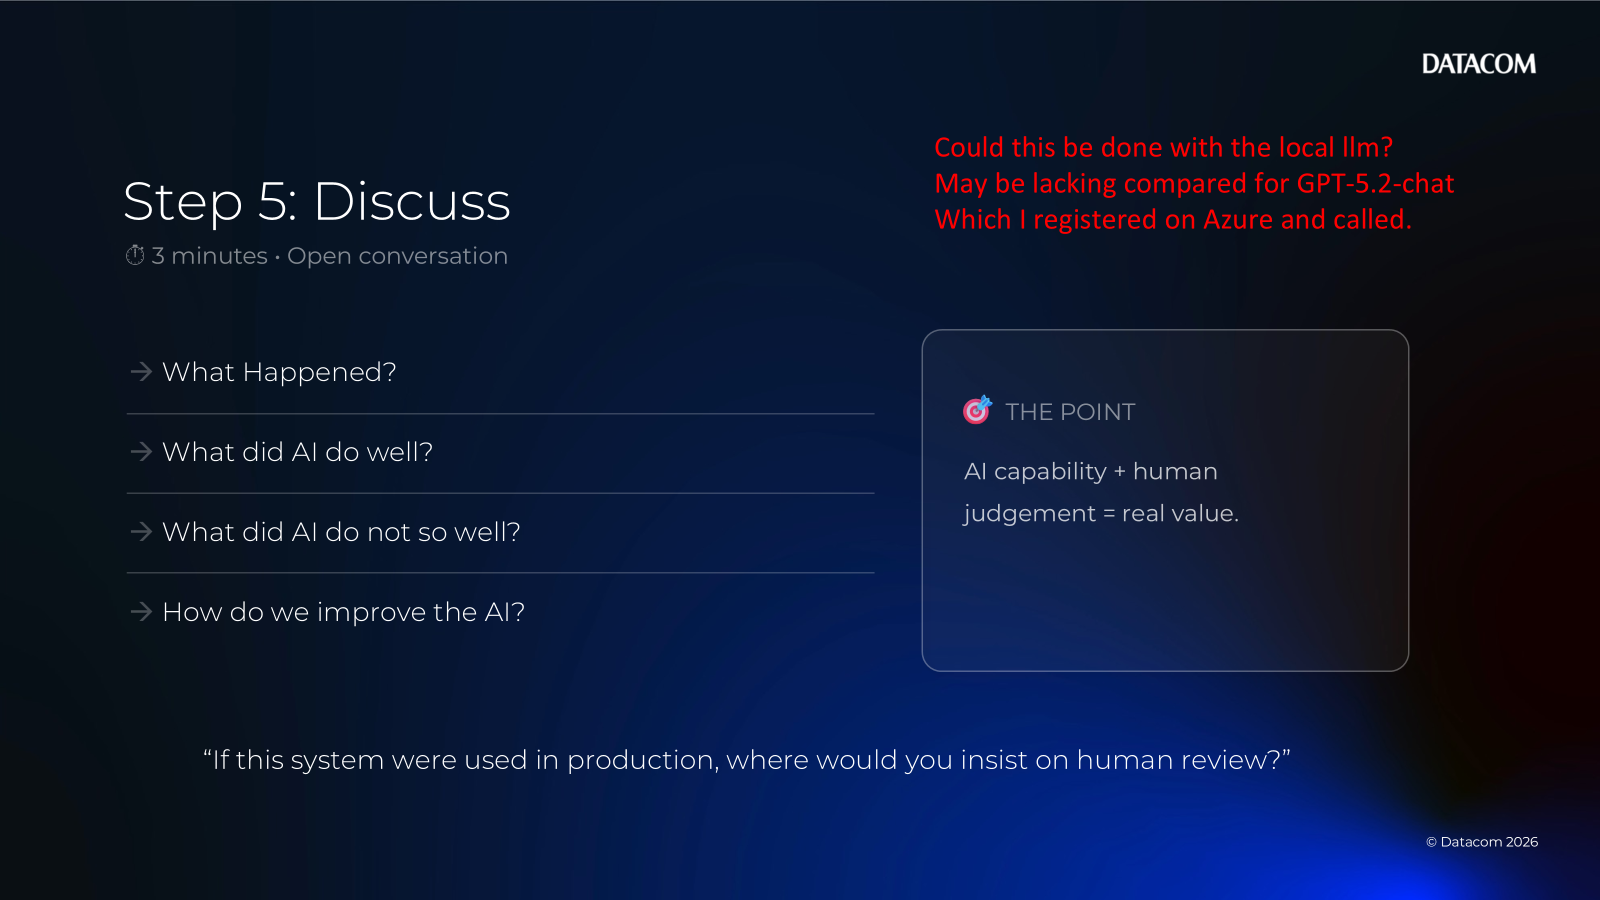
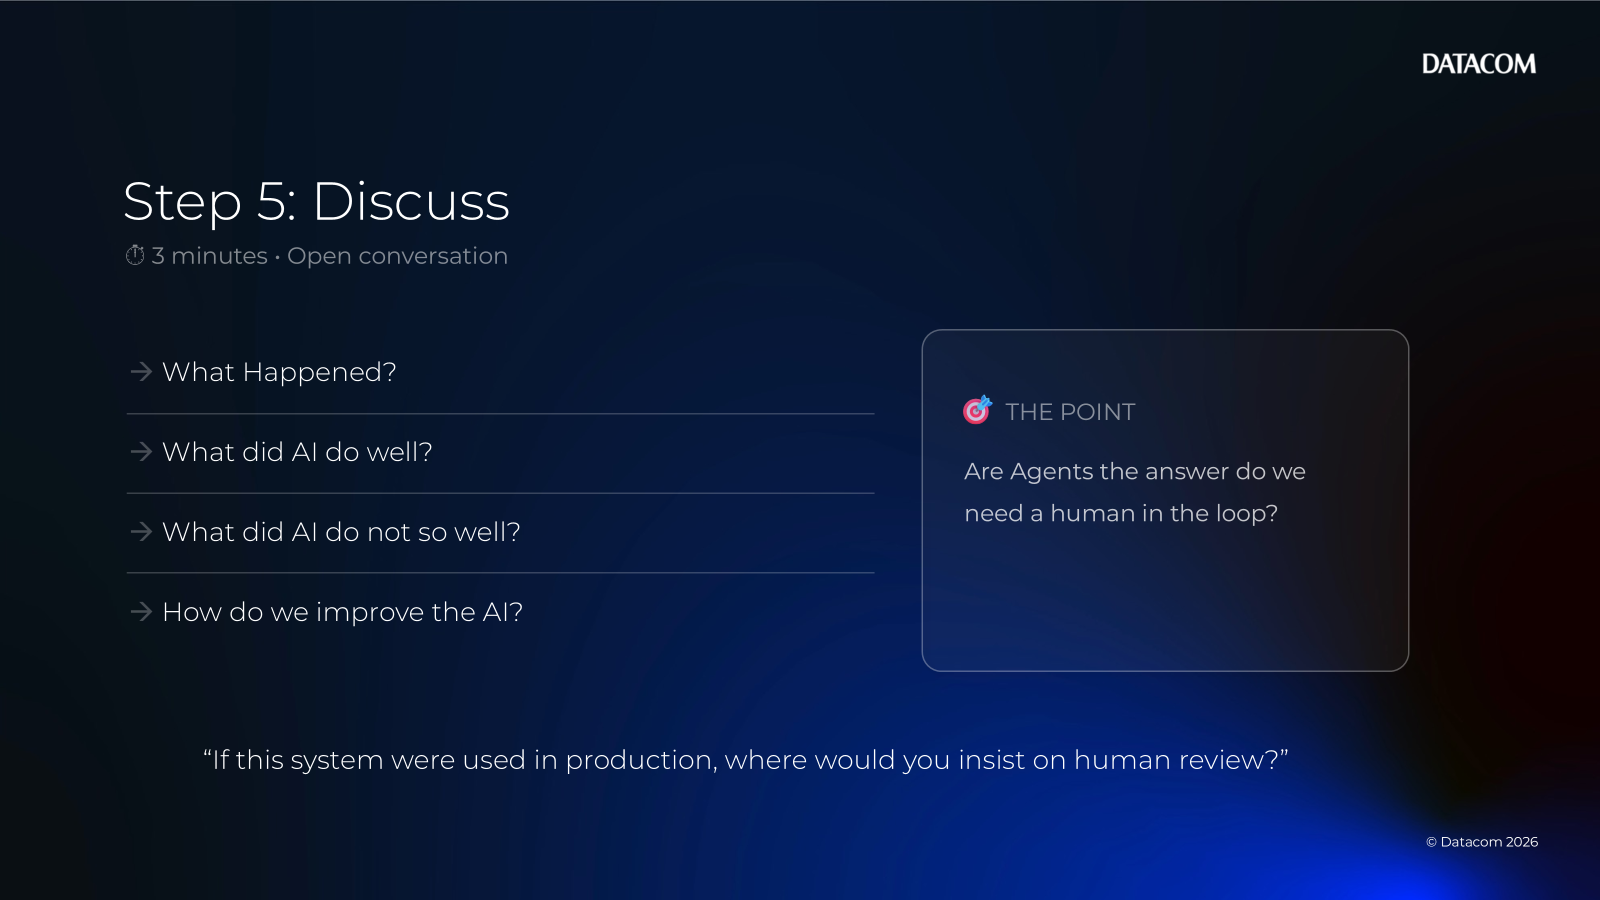
Chapter03 activity: add step slides and focus on AI scan quality

diff --git a/Chapter03/Activities/generate_slides.py b/Chapter03/Activities/generate_slides.py
@@ -165,19 +165,39 @@ def generate_slides_json(
         {"role": "user", "content": json.dumps(user, ensure_ascii=False)},
     ]
 
+    def _create_chat_completion(*, include_temperature: bool, include_response_format: bool):
+        kwargs: dict[str, Any] = {
+            "model": config.deployment,
+            "messages": messages,
+        }
+        if include_temperature:
+            kwargs["temperature"] = temperature
+        if include_response_format:
+            kwargs["response_format"] = {"type": "json_object"}
+        return client.chat.completions.create(**kwargs)
+
+    # Some newer model deployments only support default temperature.
+    # Strategy:
+    # 1) Try with response_format + temperature
+    # 2) If response_format unsupported, retry without it
+    # 3) If temperature unsupported, retry without it
     try:
-        resp = client.chat.completions.create(
-            model=config.deployment,
-            messages=messages,
-            temperature=temperature,
-            response_format={"type": "json_object"},
-        )
+        resp = _create_chat_completion(include_temperature=True, include_response_format=True)
     except TypeError:
-        resp = client.chat.completions.create(
-            model=config.deployment,
-            messages=messages,
-            temperature=temperature,
-        )
+        resp = _create_chat_completion(include_temperature=True, include_response_format=False)
+    except Exception as exc:
+        msg = str(exc)
+        if "temperature" in msg and "Only the default (1) value is supported" in msg:
+            try:
+                resp = _create_chat_completion(
+                    include_temperature=False, include_response_format=True
+                )
+            except TypeError:
+                resp = _create_chat_completion(
+                    include_temperature=False, include_response_format=False
+                )
+        else:
+            raise
 
     content = resp.choices[0].message.content or ""
     data = _extract_json_object(content)
@@ -317,7 +337,12 @@ def main() -> int:
     parser.add_argument("--api-key", type=str, default=None)
     parser.add_argument("--deployment", type=str, default=None)
     parser.add_argument("--api-version", type=str, default=None)
-    parser.add_argument("--temperature", type=float, default=0.2)
+    parser.add_argument(
+        "--temperature",
+        type=float,
+        default=1.0,
+        help="Sampling temperature. Some model deployments only support the default value (1.0).",
+    )
     parser.add_argument("--max-slides", type=int, default=12)
 
     args = parser.parse_args()

diff --git a/Chapter03/Activities/CHAPTER03_ACTIVITY01.md b/Chapter03/Activities/CHAPTER03_ACTIVITY01.md
@@ -6,15 +6,16 @@
 
 ## Goal
 
-Identify the layers in the **Datacom AI Pyramid** and describe what each layer is responsible for.
+Use the pyramid handout to generate handwritten inputs, then observe how well the AI scans/interprets them so students learn how to improve input quality (clarity, structure, and formatting).
 
 ## Learning outcomes
 
 By the end of this activity you can:
 
-- Describe the purpose of each layer in the Datacom AI Pyramid
-- Explain how the layers relate to each other (what sits “on top of” what)
-- Identify limits and potential of the platform as a shared capability
+- Describe the purpose of each layer in the Datacom AI Pyramid (at a high level)
+- Evaluate how well the AI reads handwritten/visual inputs
+- Identify input patterns that improve AI extraction (legibility, spacing, structure, labels)
+- Explain where human review is needed when using AI on scanned inputs
 
 ## Prerequisites
 
@@ -25,7 +26,7 @@ By the end of this activity you can:
 | Capture method | Camera/scan + upload to the Datacom AI Sandpit (or shared folder) |
 | Timebox | Keep to the time windows to maintain momentum |
 
-> Facilitator note: Don’t “teach” the pyramid first — let participants attempt it, then use the discussion to correct and align.
+> Facilitator note: Don’t “teach” the pyramid first — the point isn’t perfect answers. The goal is to see how the AI performs on real handwritten inputs, then discuss how to adjust inputs to improve results.
 
 ---
 
@@ -34,6 +35,8 @@ By the end of this activity you can:
 ![Activity: overview](assets/slide-00-overview.png)
 
 ### 1) Think (0–2 minutes) — what are the layers and what is their purpose?
+
+![Step 1: Think](assets/slide-01-think.png)
 
 - [ ] Individually scan the pyramid and the icons.
 - [ ] Based on what you’ve learned so far, guess the **layer names**.
@@ -45,6 +48,8 @@ By the end of this activity you can:
 ---
 
 ### 2) Write (2–7 minutes) — fill in the handout
+
+![Step 2: Write](assets/slide-02-write.png)
 
 ![Handout: fill in the blanks](assets/handout-datacom-ai-pyramid-fill-in-the-blanks.png)
 
@@ -61,15 +66,19 @@ Tip prompts:
 
 ### 3) Scan (7–9 minutes) — convert physical to digital
 
+![Step 3: Scan](assets/slide-03-scan.png)
+
 - [ ] Take a photo/scan of your completed handout.
-- [ ] Make sure the text is readable.
+- [ ] Just write naturally, mistakes will be interesting
 - [ ] If you’re working in groups, include all names.
 
 ---
 
 ### 4) Mark (9–11 minutes) — upload to the Datacom AI Sandpit
 
-- [ ] Upload your photo/scan to the agreed location (Datacom AI Sandpit / shared folder).
+![Step 4: Mark](assets/slide-04-mark.png)
+
+- [ ] Facilitator Uploads your photo to the agreed location (Datacom AI Sandpit / shared folder).
 - [ ] Use a consistent filename (suggested):
 
   `Chapter03_AI_Pyramid_<TeamOrName>_<YYYY-MM-DD>.png`
@@ -80,17 +89,19 @@ Tip prompts:
 
 ![Step 5: Discuss](assets/slide-05-discuss.png)
 
-- [ ] Compare answers between pairs/tables:
-  - [ ] Which layer was easiest to name?
-  - [ ] Which layer was hardest?
-  - [ ] Where were the disagreements?
+- [ ] Compare results between pairs/tables:
+  - [ ] How well did the AI read your handwriting and layout?
+  - [ ] What did the AI get right?
+  - [ ] What did the AI misunderstand or miss?
+  - [ ] Which inputs seemed to improve results (printing, spacing, neatness, darker pen)?
 - [ ] Discuss as a whole group:
-  - [ ] What are the pyramid’s biggest **limits** today?
-  - [ ] What’s the most valuable **potential** if used well?
+  - [ ] If you were redoing it for higher accuracy, what would you change in your handout?
+  - [ ] What does this tell you about how to format inputs for AI (clarity, structure, labels)?
 
 Optional closing questions:
-- “Which layer do you interact with most often?”
-- “Where would you want more self-service or guardrails?”
+- “If this system were used in production, where would you insist on human review?”
+- “What input guidance should we give users so the AI performs better?”
+- “What layer(s) did you use in this exercise?”
 
 ---
 

diff --git a/Chapter03/Activities/SLIDEGEN.md b/Chapter03/Activities/SLIDEGEN.md
@@ -47,6 +47,8 @@ $env:AZURE_OPENAI_API_VERSION = "<your-api-version>"
 .\.venv\Scripts\python Chapter03\Activities\generate_slides.py
 ```
 
+If your model deployment rejects custom temperature values, omit the flag (default is `1.0`).
+
 Outputs:
 
 - `Chapter03/Activities/slides.json`
